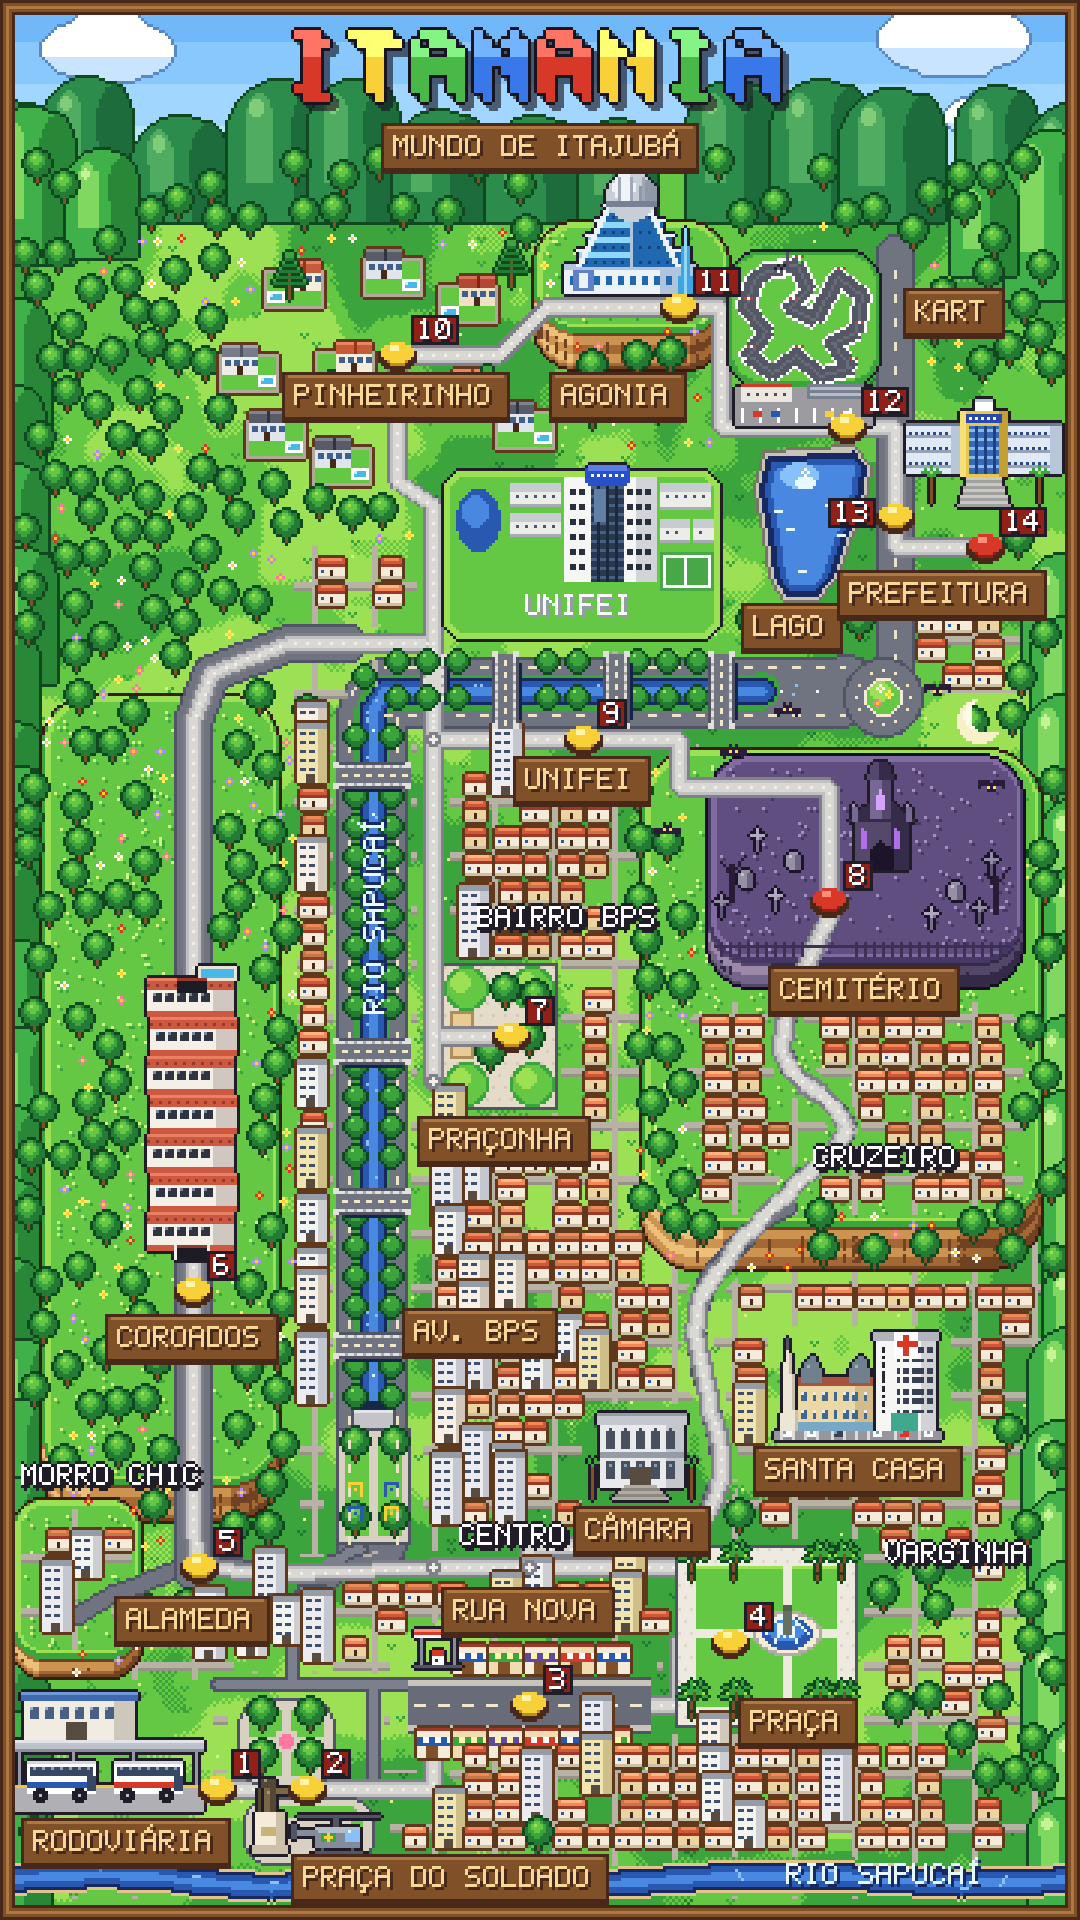
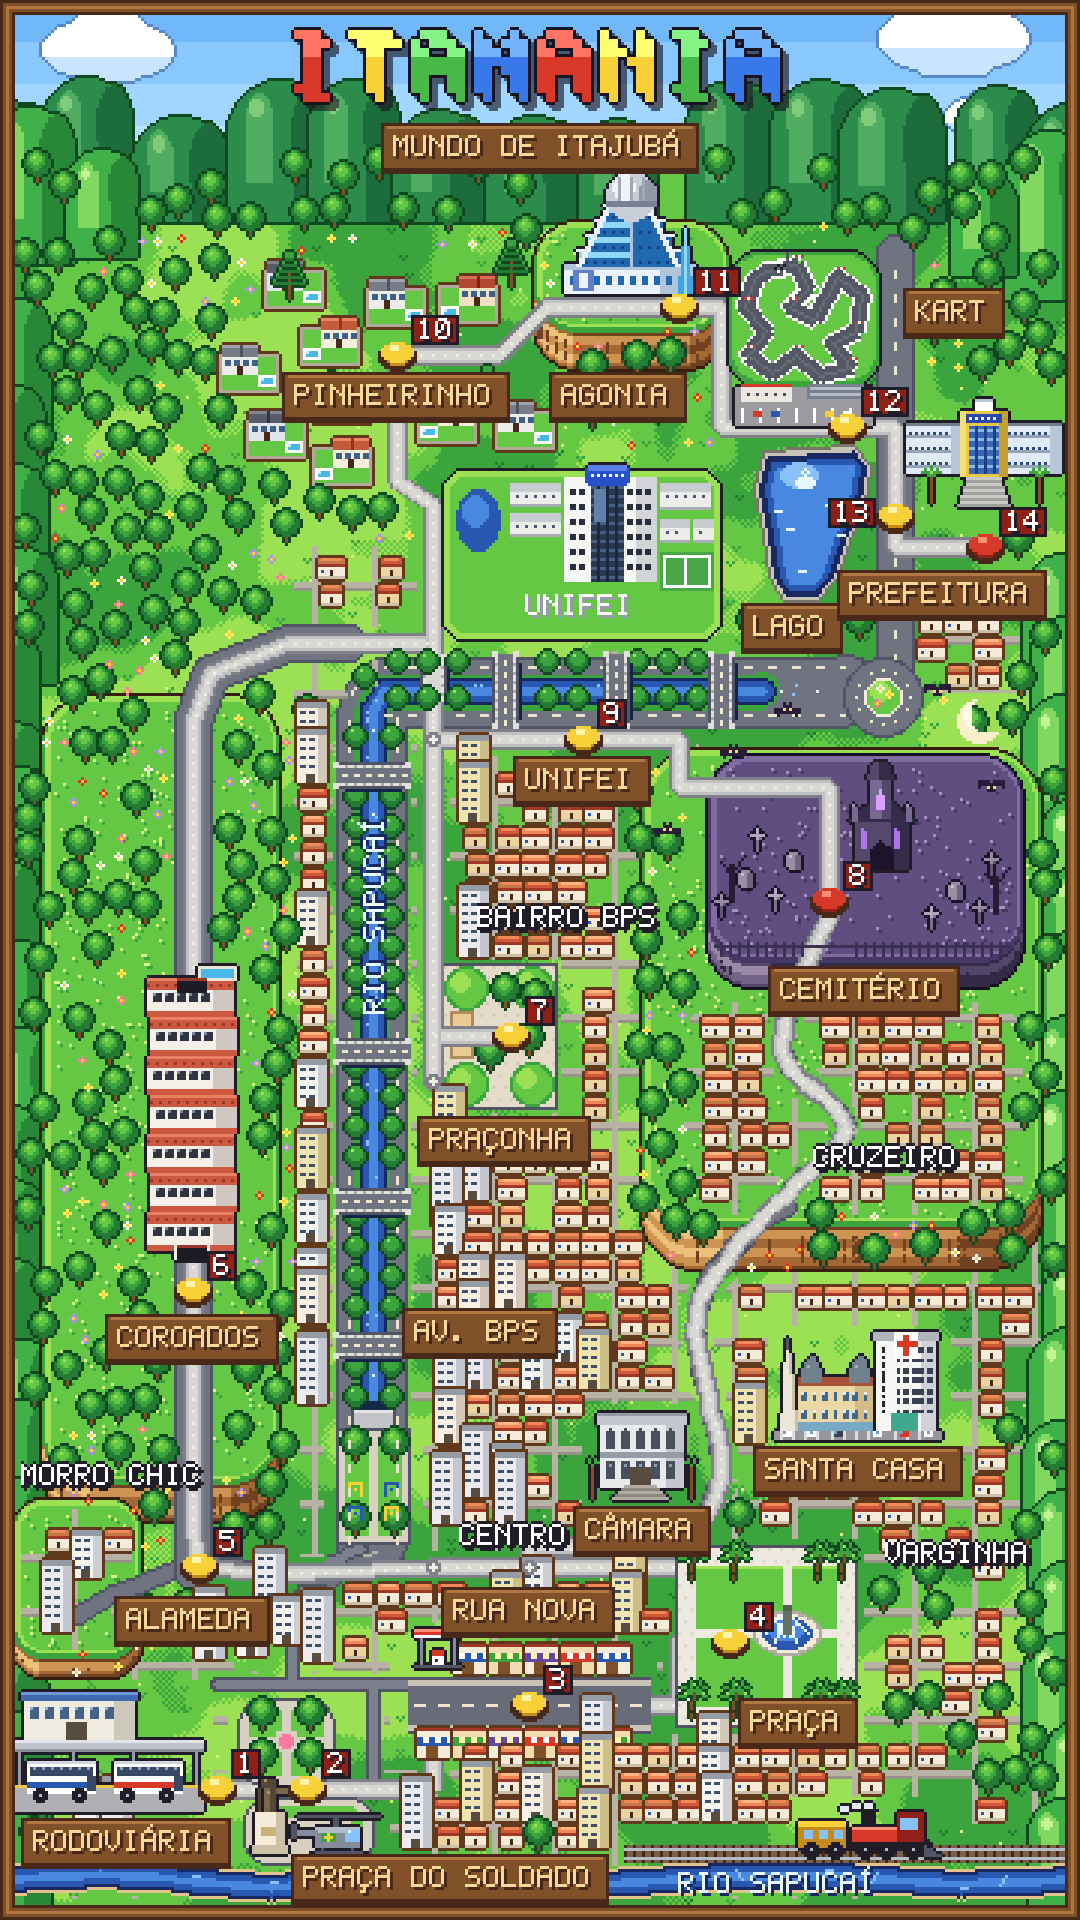
Mapa do Itamania: trem de volta como decoração, entre a Varginha e o rio
Claude-Session: https://claude.ai/code/session_01PQYRHDQbqQUf94eH7bEkMV

diff --git a/ferramentas/mapa-mundi/gerar_mapa.py b/ferramentas/mapa-mundi/gerar_mapa.py
@@ -1709,6 +1709,7 @@ def main():
         ('santacasa', m_santa_casa(), (286, 480)),
         ('camara', m_camara(), (214, 500)),
         ('rodoviaria', m_rodoviaria(), (36, 604)),
+        ('trem', m_locomotiva(), (290, 619)),
         ('soldado', m_estatua_soldado(), (90, 618)),
         ('heli', m_helicoptero(), (112, 620)),
         ('posto', m_posto(), (146, 556)),
@@ -1721,6 +1722,7 @@ def main():
     dl.rectangle([146, 320, 186, 370], fill=255)  # Praçonha (beira da BPS)
     dl.rectangle([76, 563, 126, 624], fill=255)   # pracinha e Praça do Soldado
     dl.rectangle([0, 560, 70, 606], fill=255)     # rodoviária
+    dl.rectangle([206, 608, 360, 622], fill=255)  # trilho do trem (decoração)
 
     # ----- rota das fases
     N = {
@@ -1934,6 +1936,12 @@ def main():
             ret(ds, 0, 5, 10, 5, a1)
             colar(base, s, xx + 6, yb, C['c0'])
 
+    # trilho do trem (só decoração), entre a Varginha e o rio, vindo dos morros da direita
+    ret(d, 208, 615, 360, 620, (120, 96, 72))
+    for xx in range(208, 360, 3):
+        ret(d, xx, 615, xx, 620, C['mad0'])
+    ret(d, 208, 616, 360, 616, C['ci2'])
+    ret(d, 208, 619, 360, 619, C['ci2'])
     # piso da Praça do Soldado
     d.rounded_rectangle([81, 599, 124, 621], radius=8, fill=rgba(C['ci0']))
     d.rounded_rectangle([82, 600, 123, 620], radius=7, fill=rgba((216, 208, 192)))
@@ -2083,7 +2091,7 @@ def main():
         base.alpha_composite(t, (bx - t.width // 2, by_))
 
     t = texto_img('RIO SAPUCAÍ', C['a4'], C['a0'])
-    base.alpha_composite(t, (262, 619))
+    base.alpha_composite(t, (226, 622))
     tv = t.rotate(90, expand=True)
     base.alpha_composite(tv, (119, 270))
 

diff --git a/references/mapa/proposta-mapa.md b/references/mapa/proposta-mapa.md
@@ -182,7 +182,8 @@ Os nomes dos bairros aparecem escritos no chão.
 - **Fica:** na Praça Dr. José Braz, a mesma da Praça do Soldado, como na cidade.
 - **Desenho:** prédio baixo, cobertura comprida com colunas sobre as plataformas, faixa amarela e dois ônibus parados,
   sem marca.
-- **Saíram:** o trem, a estação e o trilho.
+- **Saíram:** a estação e o trilho do canto esquerdo. O **trem** voltou só como decoração, num trilho no canto de baixo à
+  direita, entre a Varginha e o Rio Sapucaí, vindo dos morros.
 
 ## O que o mapa mostra
 
